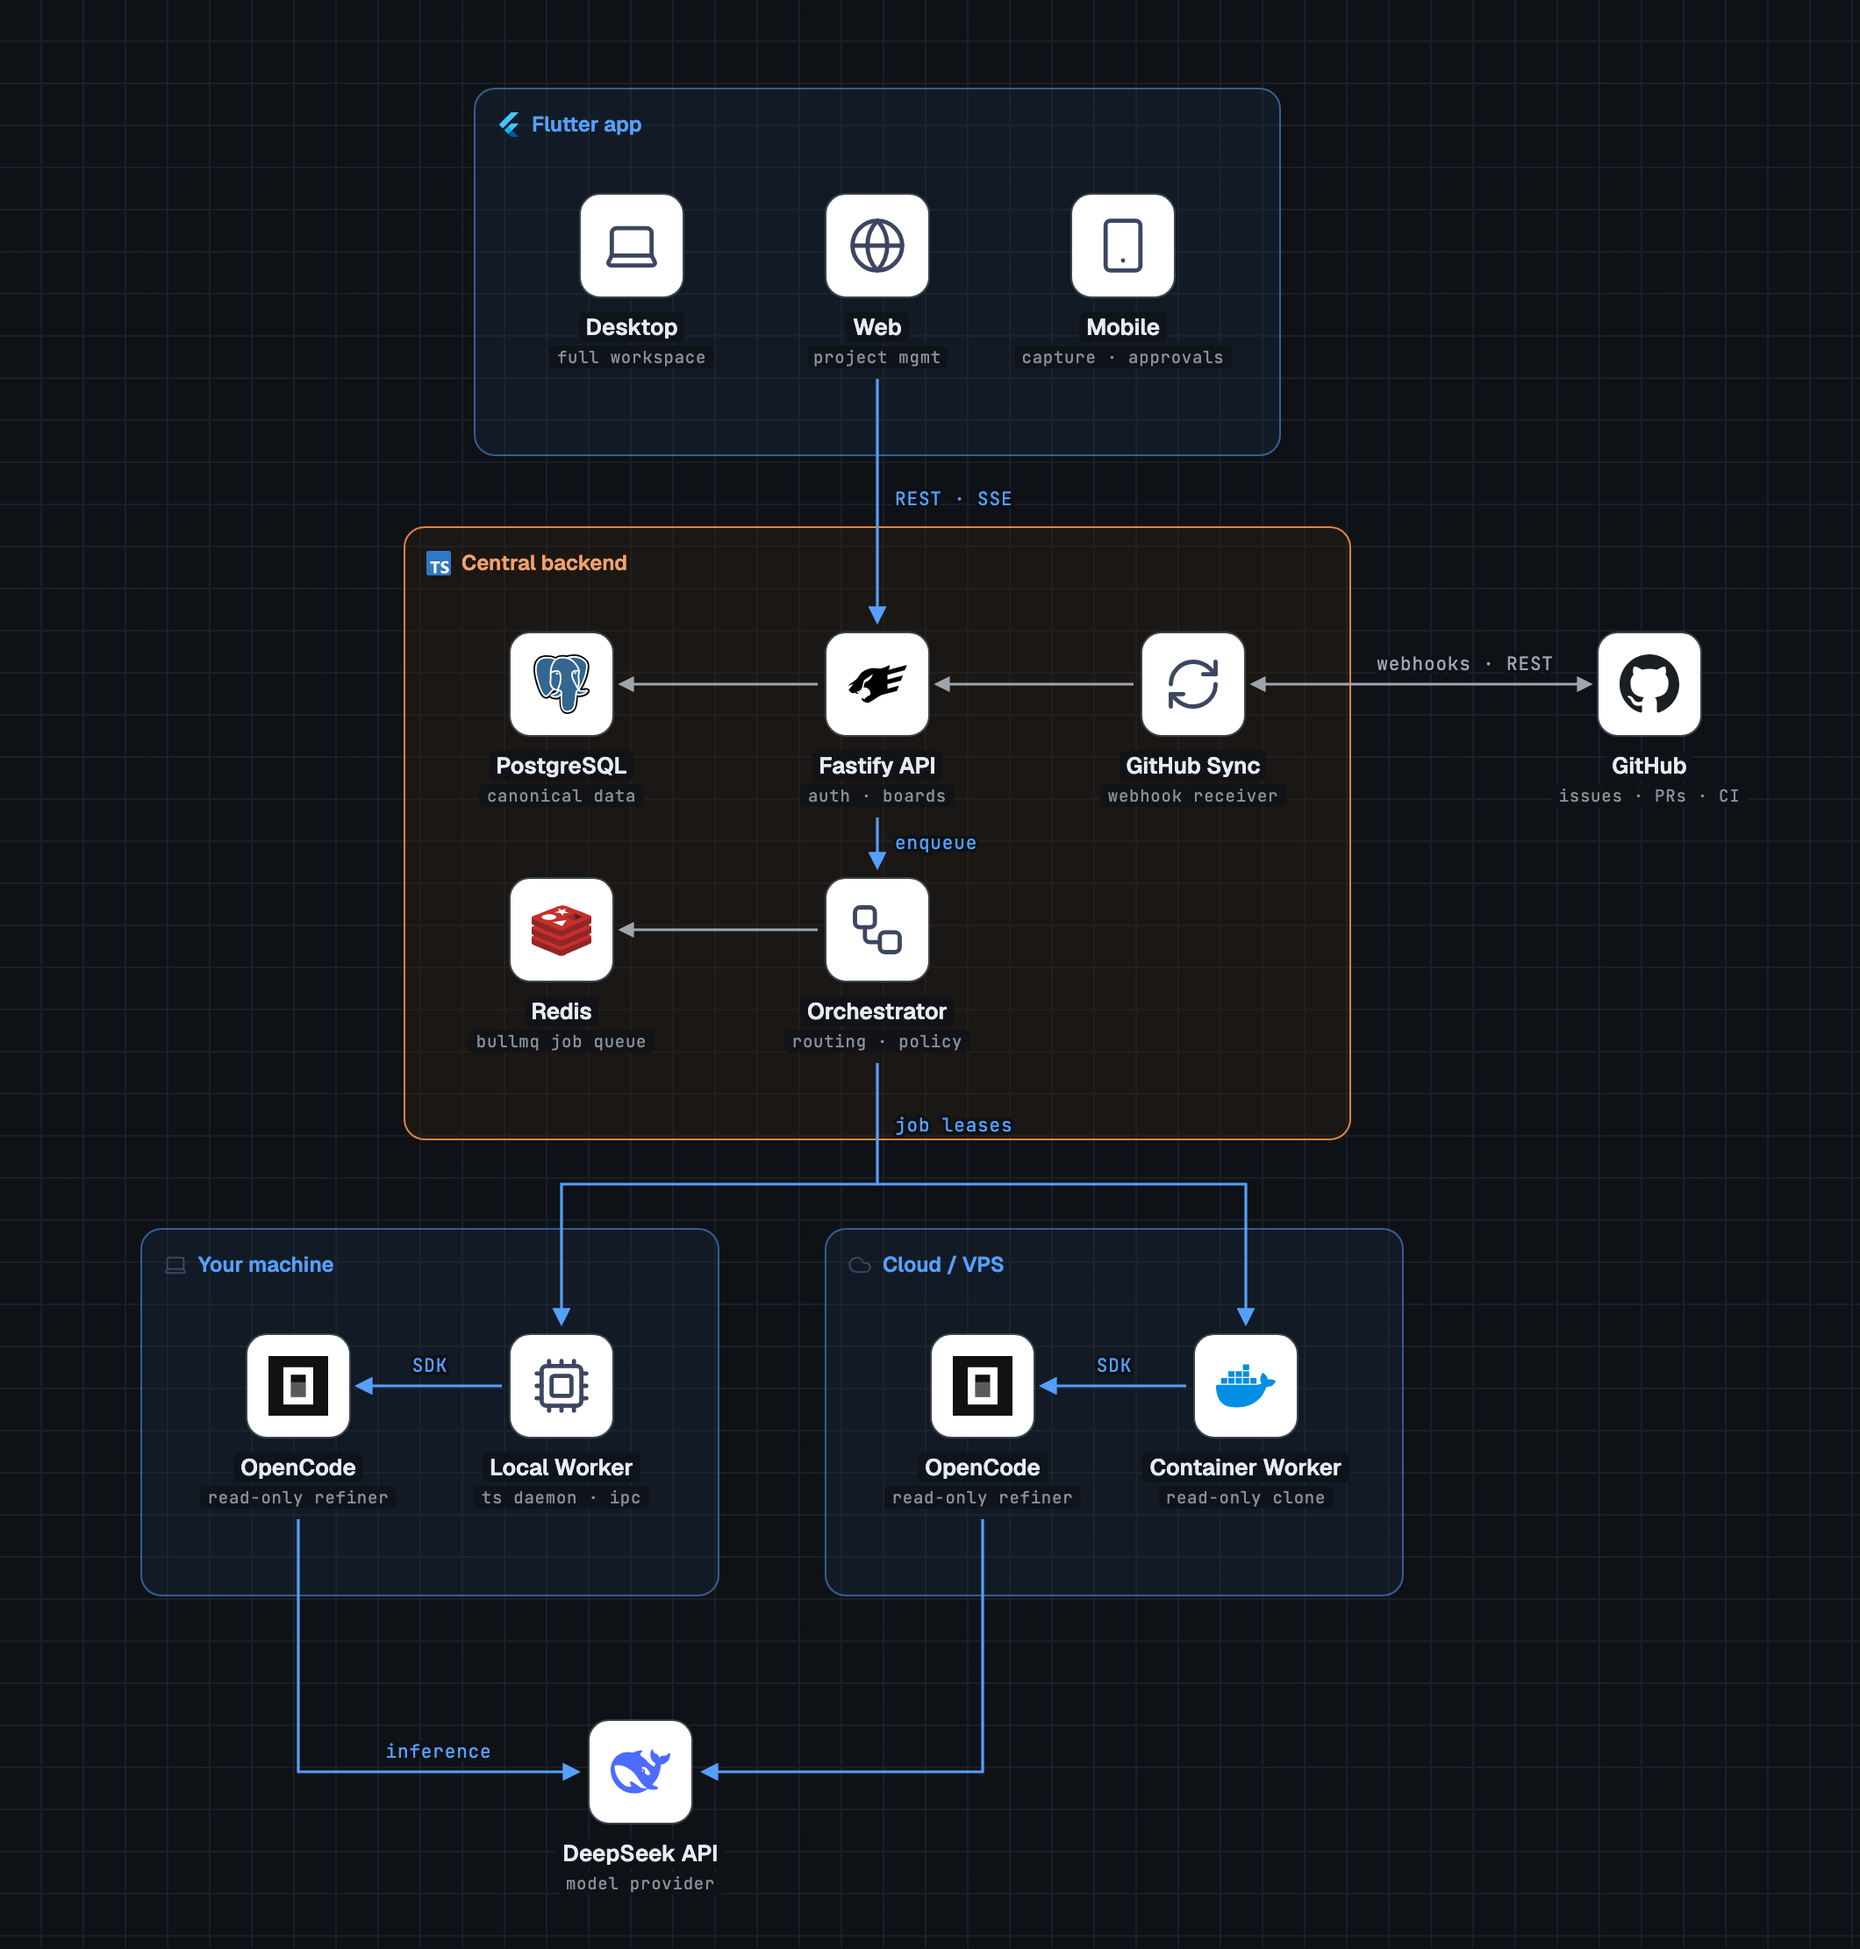
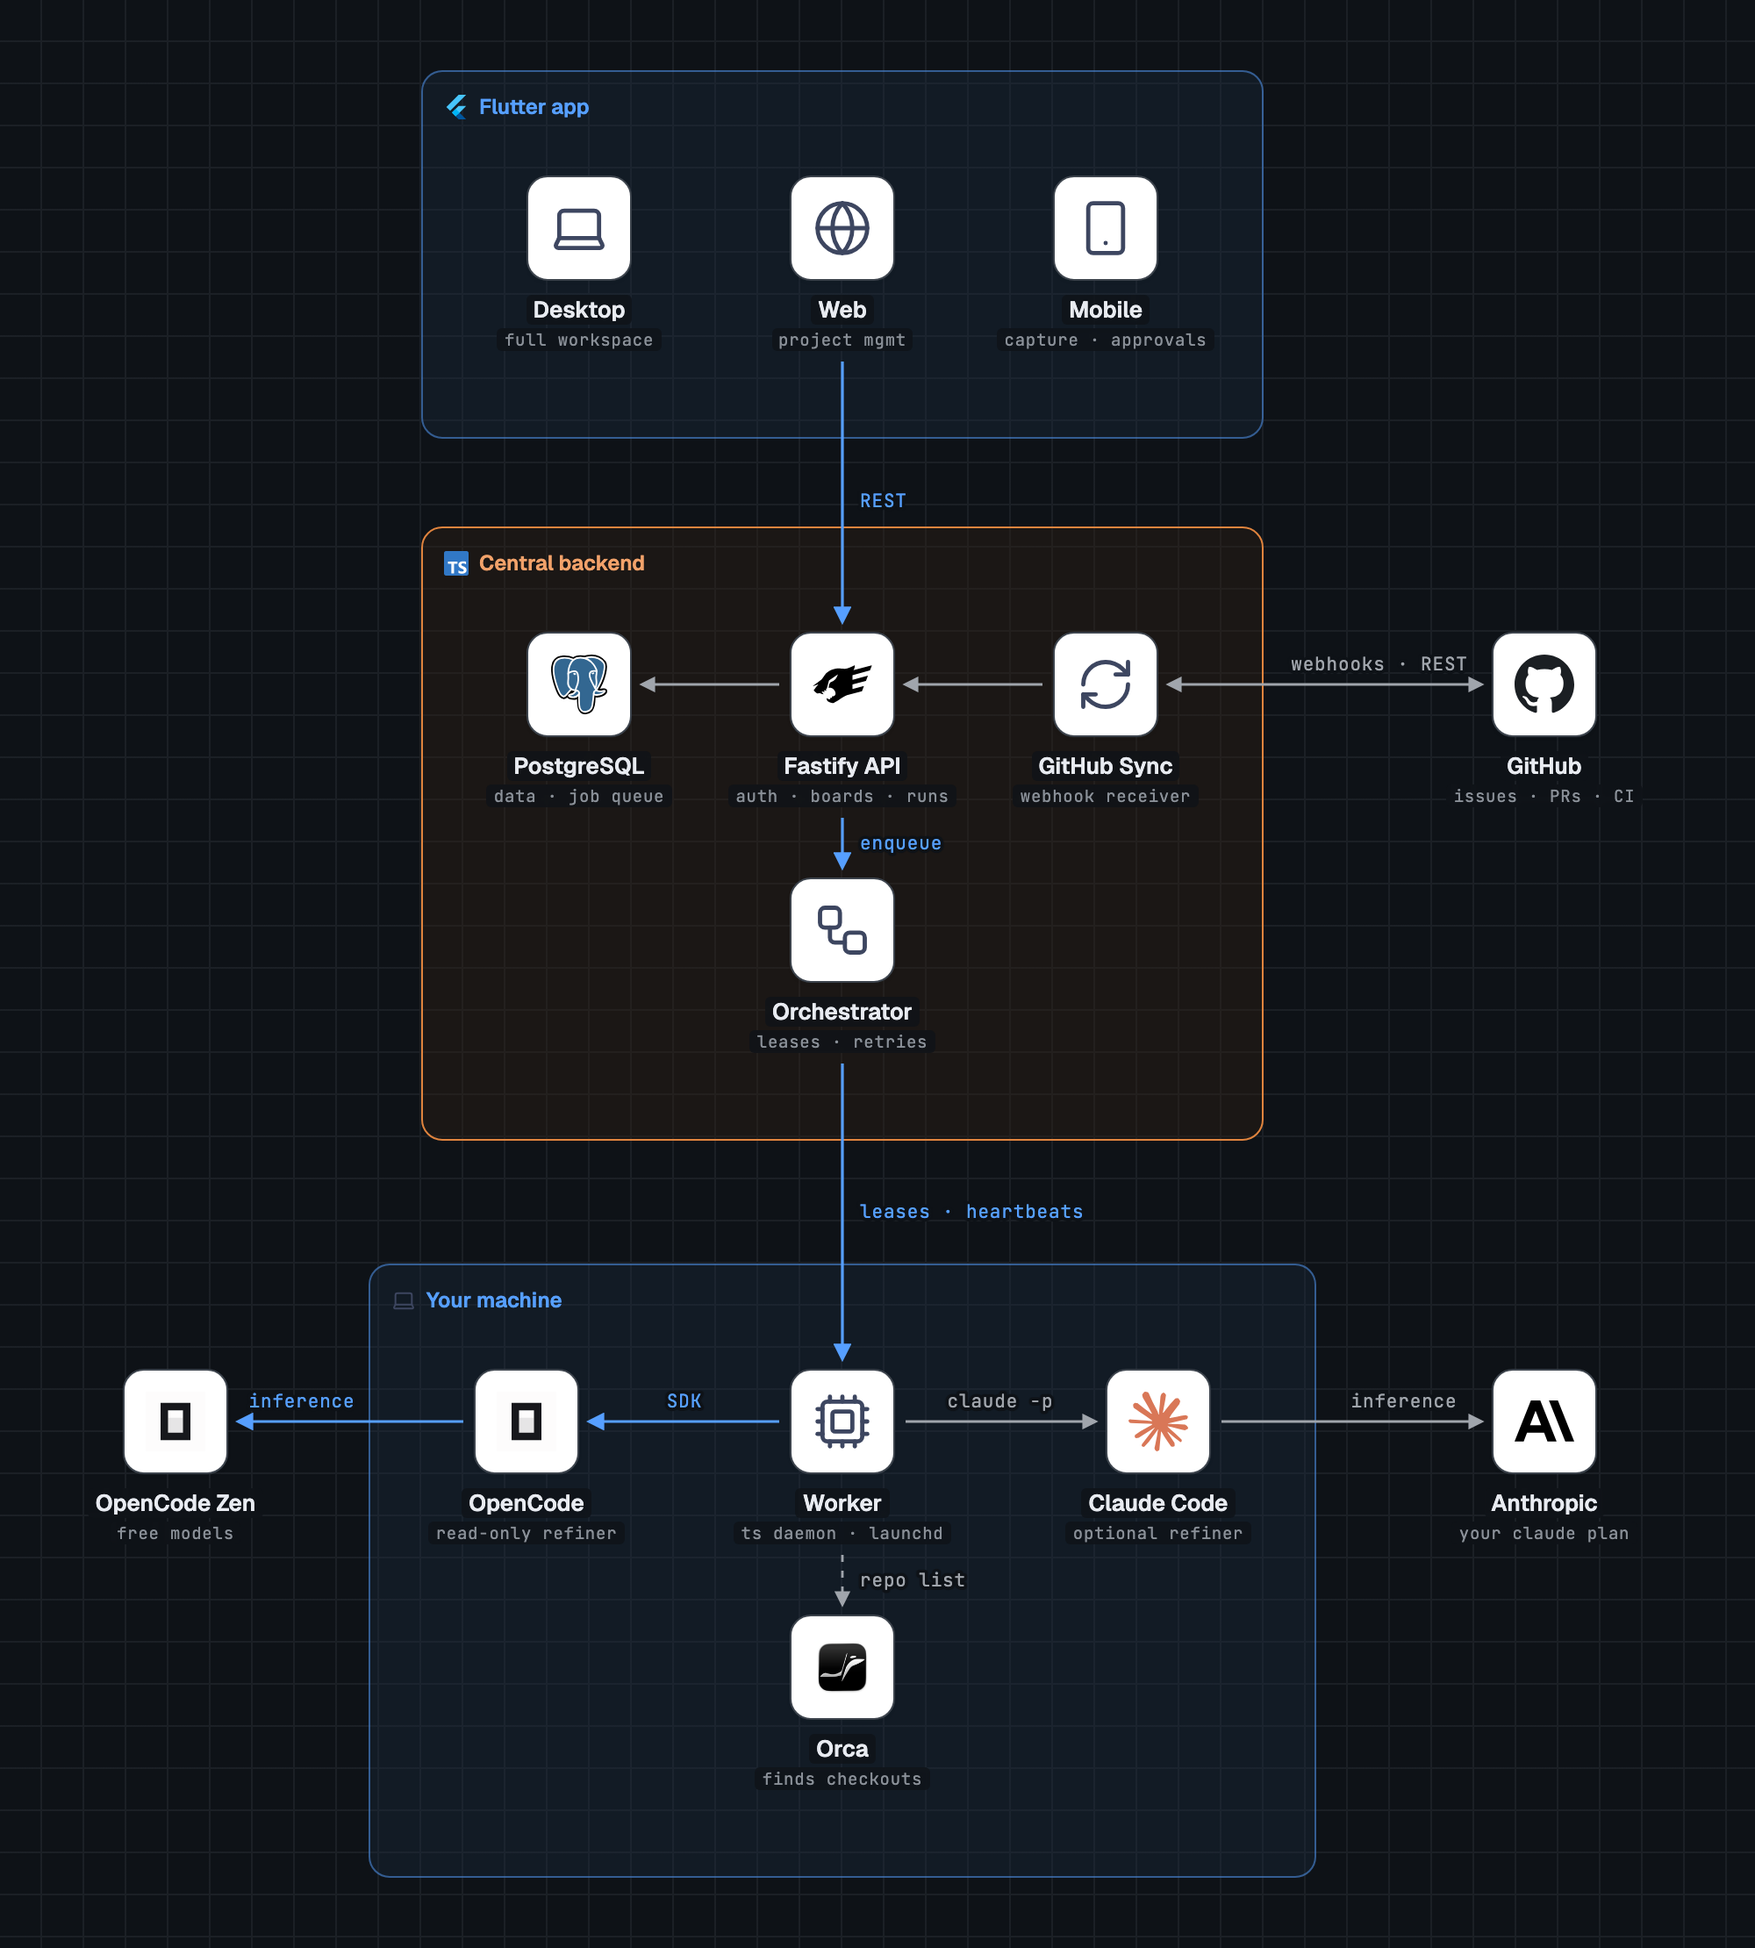
Docs: redraw the architecture diagram without a cloud worker
Your machine now holds the worker, OpenCode, the optional Claude Code refiner and Orca for checkouts; Redis is gone
(PostgreSQL is the queue).

diff --git a/README.md b/README.md
@@ -5,7 +5,7 @@ TypeScript backend and workers, OpenCode + DeepSeek agents.
 
 <picture>
   <source media="(prefers-color-scheme: dark)" srcset="docs/architecture/structure-dark.png">
-  <img alt="Product structure: Flutter app, central backend, local and cloud workers, GitHub and DeepSeek" src="docs/architecture/structure.png">
+  <img alt="Product structure: Flutter app, central backend (API, PostgreSQL queue, GitHub sync, orchestrator), GitHub, and your own machine running the worker with OpenCode or Claude Code, plus Orca to find checkouts" src="docs/architecture/structure.png">
 </picture>
 
 ## What it is
